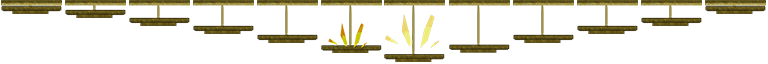
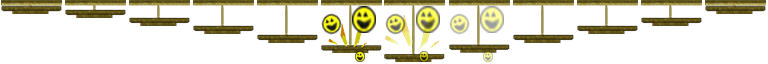
Added a couple more spritesheets Prototype images Some test code.

diff --git a/WannabeDungeonKeeper.html b/WannabeDungeonKeeper.html
@@ -22,11 +22,10 @@ h1{
 	}
 
 </style>
-
-
-
-
 </head>
+
+<!-- BODYYYYYYYYY-->
+
 
 <body>
 <h1>
@@ -34,15 +33,25 @@ WANNABE DUNGEON KEEPER
 </h1>
 <div id="Game">
 <script type="text/javascript">
-var game = new Phaser.Game(800, 640, Phaser.CANVAS,"Game" ,{ preload: preload, create: create });
+var game = new Phaser.Game(896, 640, Phaser.CANVAS,"Game" ,{ preload: preload, create: create });
 var map;
 var layer;
-
+var enemySprite;
+var happy_wall_sprite;
+var Eel_Trap_Sprite;
+var Bamboo_Spear_Trap_Sprite;
+var tileX = 4;
+var tileY = 4;
 
 function preload(){
-	game.load.image("dirtblock","x64/DirtBorderStraightBottom.png");
 	game.load.tilemap("dirt-map","Tiles/Dirt-Map.json", null ,Phaser.Tilemap.TILED_JSON);
 	game.load.image("dirt-tiles","x64/DirtFloorSheet.png");
+	game.load.image("Black-Collision","x64/Black-Collision.png")
+	game.load.image("Proto-Enemy","x64/Proto-Enemy.png");
+	game.load.spritesheet("Happy-Wall","x64/HappyWallSheet.png", 64,64,12);
+	game.load.spritesheet("Eel_Trap","x64/Eel-Trap-Spritesheet.png", 64,64,7);
+	game.load.spritesheet("Bamboo_Spear","x64/BambooSpearTrapSheet.png", 64,64,12);
+
 	}
 	
 function create(){
@@ -51,16 +60,75 @@ function create(){
 			game.add.sprite((i*64)+80,(o*64),"dirtblock");
 		}
 	}*/
+	game.physics.startSystem(Phaser.Physics.ARCADE);
+	
 	map = game.add.tilemap("dirt-map");
 	
 	map.addTilesetImage("DirtFloor","dirt-tiles");
+	map.addTilesetImage("Collision-Image","Black-Collision");
 	
-	layer = map.createLayer("Tile Layer 1");
+	layer = map.createLayer("Cave-Floor");
+//	layer = map.createLayer("Collisions");
 	
-	layer.resizeWorld();
+	enemySprite = game.add.sprite(200,200,"Proto-Enemy");
+	enemySprite.anchor.setTo(0.5,0.5);
 	
+	game.physics.enable(enemySprite);
+//	game.camera.follow(sprite);
+
+
+	happy_wall_sprite = game.add.sprite((64*tileX) + 128,64*tileY,"Happy-Wall");
+	happy_wall_sprite.angle = 90;
+	happy_wall_sprite.animations.add("Wall-Smash");
+	happy_wall_sprite.animations.play("Wall-Smash",15,true);
 	
+	Eel_Trap_Sprite = game.add.sprite((64*(tileX+2))+128,64*(tileY+2),"Eel_Trap");
+	Eel_Trap_Sprite.angle = 90;
+	Eel_Trap_Sprite.animations.add("Idle-Trap");
+	Eel_Trap_Sprite.animations.play("Idle-Trap",10,true);
+	
+	Bamboo_Spear_Trap_Sprite = game.add.sprite((64*(tileX))+128,64*(tileY+1),"Bamboo_Spear");
+	Bamboo_Spear_Trap_Sprite.angle = -90;
+	Bamboo_Spear_Trap_Sprite.animations.add("Bamboo-Lunge");
+	Bamboo_Spear_Trap_Sprite.animations.play("Bamboo-Lunge",10,true);
+	
+	cursors = game.input.keyboard.createCursorKeys();
+
+    //game.input.onDown.add(fillTiles, this);
+
 }
+function update()
+{
+	game.physics.arcade.collide(enemySprite, layer);
+
+	enemySprite.body.velocity.x = 0;
+	enemySprite.body.velocity.y = 0;
+	
+	 if (cursors.left.isDown)
+    {
+        enemySprite.body.angularVelocity = -200;
+    }
+    else if (cursors.right.isDown)
+    {
+        enemySprite.body.angularVelocity = 200;
+    }
+
+    if (cursors.up.isDown)
+    {
+        enemySprite.body.velocity.copyFrom(game.physics.arcade.velocityFromAngle(sprite.angle, 300));
+    }
+}
+
+function render()
+{
+	game.debug.text('Tile X: ' + layer.getTileX(enemySprite.x), 32, 48, 'rgb(0,0,0)');
+    game.debug.text('Tile Y: ' + layer.getTileY(enemySprite.y), 32, 64, 'rgb(0,0,0)');
+
+
+}
+
+
+
 
 </script>
 </div>
